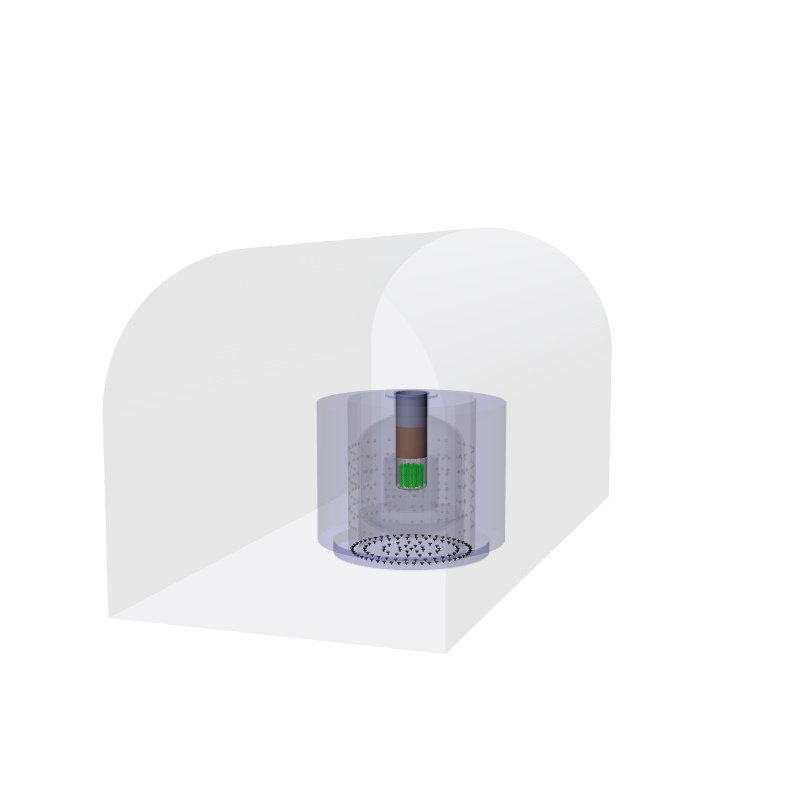
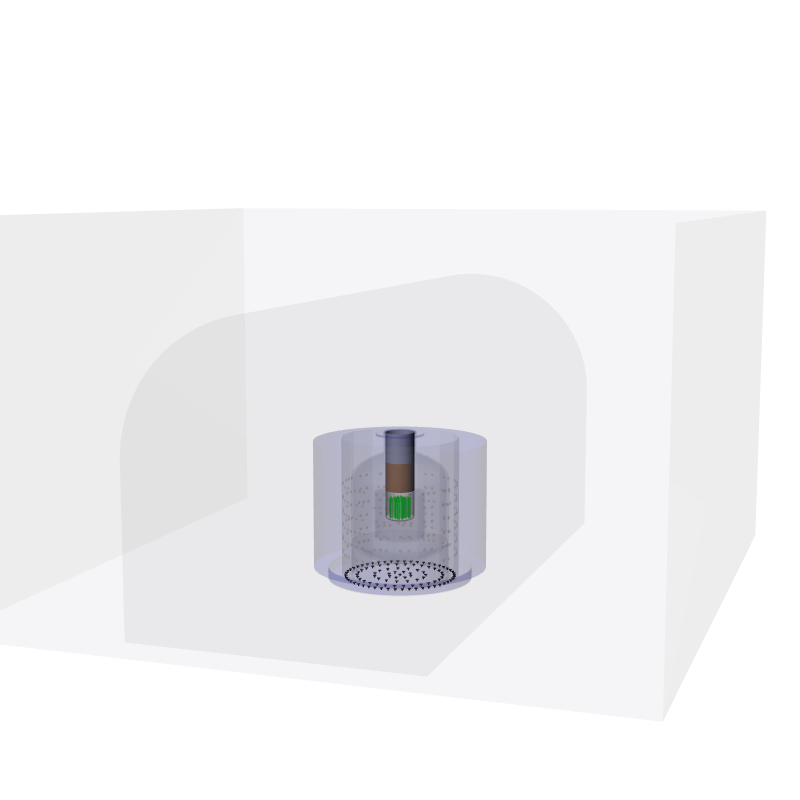
feat: refactor color definitions to use centralized COLORS dictionary for consistency

Changed region(s): [[0.375, 0.4688, 0.6562, 0.75]]

diff --git a/docs/generate_docs_images.py b/docs/generate_docs_images.py
@@ -40,12 +40,6 @@ _VIEW_DIRECTION_BELOW = (-1.0, -0.35, -1.25)
 
 _VIEW_ANGLE_DEG = 30.0
 
-STEEL = (0.5, 0.5, 0.5, 0.05)
-TUBE = (0.45, 0.55, 0.75, 0.10)
-WATER = (0, 0, 1, 0.08)
-AIR = (0.85, 0.9, 1, 0.07)
-TYVEK = (0.9, 0.9, 0.9, 0.05)
-
 CRYOSTAT_LVS = (
     "reentrance_tube_copper",
     "cryostat_outer_steel_316L",
@@ -82,17 +76,6 @@ DETECTOR_UNIT = {
     "view_direction": _VIEW_DIRECTION_BELOW,
 }
 
-# the window and the vacuum are built once per PMT and carry the channel name as a suffix
-# (``waterinstr_pmt_window_borosilicate_PMT00``), so a pattern has to allow for that suffix; only
-# the cathode is a shared volume with a literal name. The vacuum between window and cathode has no
-# color of its own, which leaves it at the viewer default -- fully opaque -- so it has to be hidden
-# explicitly, otherwise it fills every PMT no matter how transparent the glass around it is.
-PMT_TRANSPARENT = {
-    r"waterinstr_pmt_window_borosilicate_.*": (0.9, 0.8, 0.5, 0.05),
-    r"waterinstr_pmt_interior_vacuum_.*": HIDE,
-    "waterinstr_pmt_cathode": (0.545, 0.271, 0.074, 0.05),
-}
-
 # ----------------------------------------------------------------------------
 # the renderings
 # ----------------------------------------------------------------------------
@@ -111,42 +94,23 @@ IMAGES = {
     "string_fibers": {
         "assemblies": [*ARRAY_ASSEMBLIES, "fiber_curtain"],
         "strings": {1},
-        "overrides": {
-            **HIDE_CRYOSTAT,
-            r"fiber_coating_tpb_.*": (0, 1, 0.165, 0.25),
-        },
+        "overrides": HIDE_CRYOSTAT,
         "window_size": [400, 900],
     },
     "array_only": {
         "assemblies": [*ARRAY_ASSEMBLIES, "fiber_curtain"],
-        "overrides": {
-            **HIDE_CRYOSTAT,
-            r"fiber_coating_tpb_.*": (0, 1, 0.165, 0.25),
-        },
+        "overrides": HIDE_CRYOSTAT,
         "window_size": [500, 1000],
         "view_direction": _VIEW_DIRECTION_LEVEL,
     },
     "array_reentrance_tube": {
         "assemblies": [*ARRAY_ASSEMBLIES, "fiber_curtain"],
-        "overrides": {
-            "reentrance_tube_copper": TUBE,
-            **{lv: HIDE for lv in CRYOSTAT_LVS if lv != "reentrance_tube_copper"},
-            r"fiber_coating_tpb_.*": (0, 1, 0.165, 0.25),
-        },
+        "overrides": {lv: HIDE for lv in CRYOSTAT_LVS if lv != "reentrance_tube_copper"},
         "window_size": [500, 1000],
         "view_direction": _VIEW_DIRECTION_LEVEL,
     },
     "array_cryostat": {
         "assemblies": [*ARRAY_ASSEMBLIES, "fiber_curtain", "nm_plastic"],
-        "overrides": {
-            "reentrance_tube_copper": TUBE,
-            "cryostat_outer_steel_316L": STEEL,
-            "cryostat_inner_steel_316L": STEEL,
-            "neutron_moderator_pmma": STEEL,
-            "cryostat_skirt_steel_316L": STEEL,
-            "cryostat_foot_steel_316L": STEEL,
-            r"fiber_coating_tpb_.*": (0, 1, 0.165, 0.25),
-        },
         "window_size": [500, 1000],
         "view_direction": _VIEW_DIRECTION_LEVEL,
     },
@@ -166,19 +130,7 @@ IMAGES = {
             "fiber_curtain",
             "nm_plastic",
         ],
-        "overrides": {
-            "watertank_steel_304L": STEEL,
-            "watertank_water": WATER,
-            "reentrance_tube_copper": TUBE,
-            "cryostat_outer_steel_316L": STEEL,
-            "cryostat_inner_steel_316L": STEEL,
-            "neutron_moderator_pmma": STEEL,
-            "cryostat_skirt_steel_316L": STEEL,
-            "cryostat_foot_steel_316L": STEEL,
-            r"fiber_.*": (0, 1, 0.165, 0.125),
-            **PMT_TRANSPARENT,
-            "waterinstr_reflector_tyvek": TYVEK,
-        },
+        "overrides": {r"fiber_.*": (0, 1, 0.165, 0.125)},
         "window_size": [600, 600],
         "view_direction": _VIEW_DIRECTION_LEVEL,
     },
@@ -194,21 +146,7 @@ IMAGES = {
             "fiber_curtain",
             "nm_plastic",
         ],
-        "overrides": {
-            "rock": HIDE,
-            "cavern_air": AIR,
-            "watertank_steel_304L": STEEL,
-            "watertank_water": WATER,
-            "reentrance_tube_copper": TUBE,
-            "cryostat_outer_steel_316L": STEEL,
-            "cryostat_inner_steel_316L": STEEL,
-            "neutron_moderator_pmma": STEEL,
-            "cryostat_skirt_steel_316L": STEEL,
-            "cryostat_foot_steel_316L": STEEL,
-            r"fiber_.*": (0, 1, 0.165, 0.125),
-            **PMT_TRANSPARENT,
-            "waterinstr_reflector_tyvek": TYVEK,
-        },
+        "overrides": {r"fiber_.*": (0, 1, 0.165, 0.125)},
         "window_size": [800, 800],
         "view_direction": _VIEW_DIRECTION_LEVEL,
     },

diff --git a/src/pygeoml1000/cryo.py b/src/pygeoml1000/cryo.py
@@ -12,14 +12,15 @@ import pyg4ometry.geant4 as g4
 from pygeomtools import RemageDetectorInfo
 
 from . import core, watertank
-
-# Import new reentrance tube profile and WLSR functions
 from .rt_profiles import (
     make_316l_ss_profiles,
     make_inner_profile,
     make_ofhc_cu_profiles,
     make_outer_profile,
 )
+
+# Import new reentrance tube profile and WLSR functions
+from .utils import COLORS
 from .wlsr import place_inner_wlsr_in_argon, place_outer_wlsr_in_atmospheric
 
 log = logging.getLogger(__name__)
@@ -412,7 +413,7 @@ def construct_reentrance_tube_with_layers(
     # Construct steel tube
     tube_solid = g4.solid.GenericPolycone("reentrance_tube_copper", 0, 2 * np.pi, outer_r, outer_z, reg, "mm")
     tube_lv = g4.LogicalVolume(tube_solid, materials.metal_copper, "reentrance_tube_copper", reg)
-    tube_lv.pygeom_color_rgba = False  # all parts of the tube are covered by the WLSRs or the inner tubes.
+    tube_lv.pygeom_color_rgba = COLORS["copper"]
     g4.PhysicalVolume([0, 0, 0], [0, 0, 0, "mm"], tube_lv, "reentrance_tube_copper", atmlar_lv, registry=reg)
 
     # Construct underground argon cavity
@@ -547,7 +548,7 @@ def construct_moderator_simple(
         "mm",
     )
     mod_lv = g4.LogicalVolume(mod_solid, mod_material, "neutron_moderator_pmma", reg)
-    mod_lv.pygeom_color_rgba = (0.5, 0.5, 0.5, 0.1)
+    mod_lv.pygeom_color_rgba = COLORS["steel"]
     # g4.PhysicalVolume([0, 0, 0], [0, 0, -2900], mod_lv, "neutron_moderator_pmma", mother_lv, reg)  # -3000
     g4.PhysicalVolume([0, 0, 0], [0, 0, -2397], mod_lv, "neutron_moderator_pmma", mother_lv, reg)  # -3000
     # Z value used to be -body_height/2.*(1-bottom_fraction)
@@ -642,7 +643,7 @@ def construct_and_place_cryostat(instr: core.InstrumentationData) -> core.Instru
     skirt_lv = g4.LogicalVolume(
         skirt_solid, instr.materials.metal_steel_316L, "cryostat_skirt_steel_316L", instr.registry
     )
-    skirt_lv.pygeom_color_rgba = (0.5, 0.5, 0.5, 0.1)
+    skirt_lv.pygeom_color_rgba = COLORS["steel"]
     foot_solid = g4.solid.Tubs(
         "cryostat_foot_steel_316L",
         skirt_radius + 1e-9,
@@ -656,12 +657,12 @@ def construct_and_place_cryostat(instr: core.InstrumentationData) -> core.Instru
     foot_lv = g4.LogicalVolume(
         foot_solid, instr.materials.metal_steel_316L, "cryostat_foot_steel_316L", instr.registry
     )
-    foot_lv.pygeom_color_rgba = (0.5, 0.5, 0.5, 0.1)
+    foot_lv.pygeom_color_rgba = COLORS["steel"]
 
     outercryo_lv = construct_outer_cryostat(
         instr.materials.metal_steel_316L, instr.registry, ocryo_r, ocryo_z
     )
-    outercryo_lv.pygeom_color_rgba = (0.5, 0.5, 0.5, 0.1)
+    outercryo_lv.pygeom_color_rgba = COLORS["steel"]
 
     # For the vacuum gap, it should be as simple as subtracting the outer cryostat thicknesses
     # The neck height stays the same, effectively lowering the body by the thickness
@@ -697,7 +698,7 @@ def construct_and_place_cryostat(instr: core.InstrumentationData) -> core.Instru
     )
 
     icryo_lv = construct_inner_cryostat(instr.materials.metal_steel_316L, instr.registry, icryo_r, icryo_z)
-    icryo_lv.pygeom_color_rgba = (0.5, 0.5, 0.5, 0.1)
+    icryo_lv.pygeom_color_rgba = COLORS["steel"]
 
     # The next layer should be again just subtracting by the inner cryo thickness everywhere
     total_height = total_height - icryo_thickness

diff --git a/src/pygeoml1000/watertank_instrumentation.py b/src/pygeoml1000/watertank_instrumentation.py
@@ -16,6 +16,7 @@ from pygeomtools import RemageDetectorInfo
 from scipy.spatial.transform import Rotation as R
 
 from . import core, materials, watertank
+from .utils import COLORS
 
 # This is some rough calculation of the effective height of the tyvek foil inside of the tank.
 # This is to avoid overlaps with the curved top part of the water tank, while keeping the gap as
@@ -104,7 +105,7 @@ def construct_PMT_front(
     )
 
     pmt_cathode_lv = g4.LogicalVolume(pmt_cathode, vac_mat, "waterinstr_pmt_cathode", reg)
-    pmt_cathode_lv.pygeom_color_rgba = [0.545, 0.271, 0.074, 1]
+    pmt_cathode_lv.pygeom_color_rgba = COLORS["pmt_cathode"]
     g4.SkinSurface("pmt_cathode_surface", pmt_cathode_lv, surfaces.to_photocathode, reg)
 
     # Already place all of the daughters in the Mother.
@@ -230,8 +231,10 @@ def place_PMT_front(
     pmt_window_lv = _logical_volume_sharing_mesh(
         pmt_volumes[0], instr.materials.borosilicate, window_name, reg
     )
-    pmt_window_lv.pygeom_color_rgba = [0.9, 0.8, 0.5, 0.5]
+    pmt_window_lv.pygeom_color_rgba = COLORS["pmt_window"]
     pmt_vacuum_lv = _logical_volume_sharing_mesh(pmt_volumes[1], instr.materials.vacuum, vacuum_name, reg)
+    # the vacuum would fill the PMT no matter how transparent the glass around it is.
+    pmt_vacuum_lv.pygeom_color_rgba = False
 
     # We have to place the new logical volumes for every single PMT
     g4.PhysicalVolume([0, 0, 0], [0, 0, 0], pmt_vacuum_lv, vacuum_name, pmt_window_lv, reg)
@@ -320,7 +323,7 @@ def construct_and_place_instrumentation(instr: core.InstrumentationData) -> g4.P
     # Materials are temporary here
 
     tyvek_lv = construct_tyvek_foil(instr.materials.tyvek, instr)
-    tyvek_lv.pygeom_color_rgba = [1, 1, 1, 0.20]
+    tyvek_lv.pygeom_color_rgba = COLORS["tyvek"]
     g4.SkinSurface("tyvek_surface", tyvek_lv, instr.materials.surfaces.to_tyvek, instr.registry)
     g4.PhysicalVolume(
         [0, 0, 0], [0, 0, 2 * offset], tyvek_lv, "waterinstr_reflector_tyvek", instr.mother_lv, instr.registry

diff --git a/src/pygeoml1000/watertank.py b/src/pygeoml1000/watertank.py
@@ -14,6 +14,7 @@ import pyg4ometry.geant4 as g4
 from pygeomtools import RemageDetectorInfo
 
 from . import core, cryo
+from .utils import COLORS
 
 # Everything in mm
 # Basic tank
@@ -307,7 +308,7 @@ def construct_and_place_tank(instr: core.InstrumentationData) -> core.Instrument
     if instr.detail["watertank"] == "omit":
         return instr
     tank_lv = construct_tank(instr.materials.metal_steel_304L, instr.registry, instr.detail["watertank"])
-    tank_lv.pygeom_color_rgba = False
+    tank_lv.pygeom_color_rgba = COLORS["steel"]
     g4.SkinSurface("tank_steel_surface", tank_lv, instr.materials.surfaces.to_tyvek, instr.registry)
     # Polycones are placed with the bottom positioned at the given coordinates.
     # But we want it such that the polycone is centered around (0,0,0)
@@ -324,7 +325,7 @@ def construct_and_place_tank(instr: core.InstrumentationData) -> core.Instrument
     )
 
     water_lv = construct_water(instr.materials.water, instr.registry, instr.detail["watertank"])
-    water_lv.pygeom_color_rgba = [0, 0, 1, 0.2]
+    water_lv.pygeom_color_rgba = COLORS["water"]
     water_pv = g4.PhysicalVolume([0, 0, 0], [0, 0, 0], water_lv, WATER_VOLUME_NAME, tank_lv, instr.registry)
 
     water_pv.set_pygeom_active_detector(RemageDetectorInfo("scintillator", 10002, {}))

diff --git a/src/pygeoml1000/cavern_and_labs.py b/src/pygeoml1000/cavern_and_labs.py
@@ -6,6 +6,7 @@ import numpy as np
 import pyg4ometry.geant4 as g4
 
 from . import core, watertank
+from .utils import COLORS
 
 # z of the cavern's reference solid (the floor box' centre) above the detector origin. Everything
 # else in the cavern/rock chain is positioned relative to this.
@@ -36,7 +37,7 @@ def construct_and_place_cavern_and_labs(instr: core.InstrumentationData) -> None
             rock_depth_below,
             rock_depth_above,
         )
-        rock_lv.pygeom_color_rgba = (0.5, 0.5, 0.5, 0.25)
+        rock_lv.pygeom_color_rgba = COLORS["rock"]
 
         cavern_lv, cavern_x_offset, cavern_z_displacement = construct_cavern(
             instr.materials.air,
@@ -46,6 +47,7 @@ def construct_and_place_cavern_and_labs(instr: core.InstrumentationData) -> None
             rock_depth_below,
             rock_depth_above,
         )
+        cavern_lv.pygeom_color_rgba = COLORS["air"]
 
         # the rock is symmetric about its own origin, so placing it such that the cavern lands at
         # CAVERN_ORIGIN_Z fixes the whole chain. Using the solids' extents here instead would put the

diff --git a/src/pygeoml1000/fibers.py b/src/pygeoml1000/fibers.py
@@ -10,6 +10,7 @@ from pyg4ometry import geant4 as g4
 from pygeomtools import RemageDetectorInfo
 
 from . import core, hpge_strings, materials
+from .utils import COLORS
 
 
 def place_fiber_modules(b: core.InstrumentationData) -> None:
@@ -685,7 +686,7 @@ class ModuleFactorySingleFibers(ModuleFactoryBase):
         coating_lv = g4.LogicalVolume(coating, self.materials.tpb_on_fibers, v_name, self.registry)
         g4.PhysicalVolume([0, 0, 0], [0, 0, 0], inner_lv, f"fiber_cl2{v_suffix}", coating_lv, self.registry)
 
-        coating_lv.pygeom_color_rgba = [0, 1, 0.165, 0.01]  # 520 nm
+        coating_lv.pygeom_color_rgba = COLORS["fiber_coating"]
 
         return coating_lv
 
@@ -1076,7 +1077,7 @@ class ModuleFactorySegment(ModuleFactoryBase):
             self.registry,
         )
 
-        coating_lv.pygeom_color_rgba = [0, 1, 0.165, 0.1]  # 520 nm
+        coating_lv.pygeom_color_rgba = COLORS["fiber_coating"]
 
         return coating_lv
 

diff --git a/src/pygeoml1000/utils.py b/src/pygeoml1000/utils.py
@@ -1,0 +1,16 @@
+"""Helpers shared by more than one module of this package."""
+
+from __future__ import annotations
+
+# default RGBA colors of the logical volumes
+COLORS = {
+    "rock": (0.85, 0.9, 1, 0.05),
+    "steel": (0.5, 0.5, 0.5, 0.05),
+    "copper": (0.45, 0.55, 0.75, 0.1),
+    "water": (0, 0, 1, 0.08),
+    "air": (0.1, 0.1, 0.1, 0.025),
+    "tyvek": (0.9, 0.9, 0.9, 0.05),
+    "fiber_coating": (0, 1, 0.165, 0.25),  # 520 nm
+    "pmt_window": (0.9, 0.8, 0.5, 0.05),
+    "pmt_cathode": (0.545, 0.271, 0.074, 0.05),
+}
